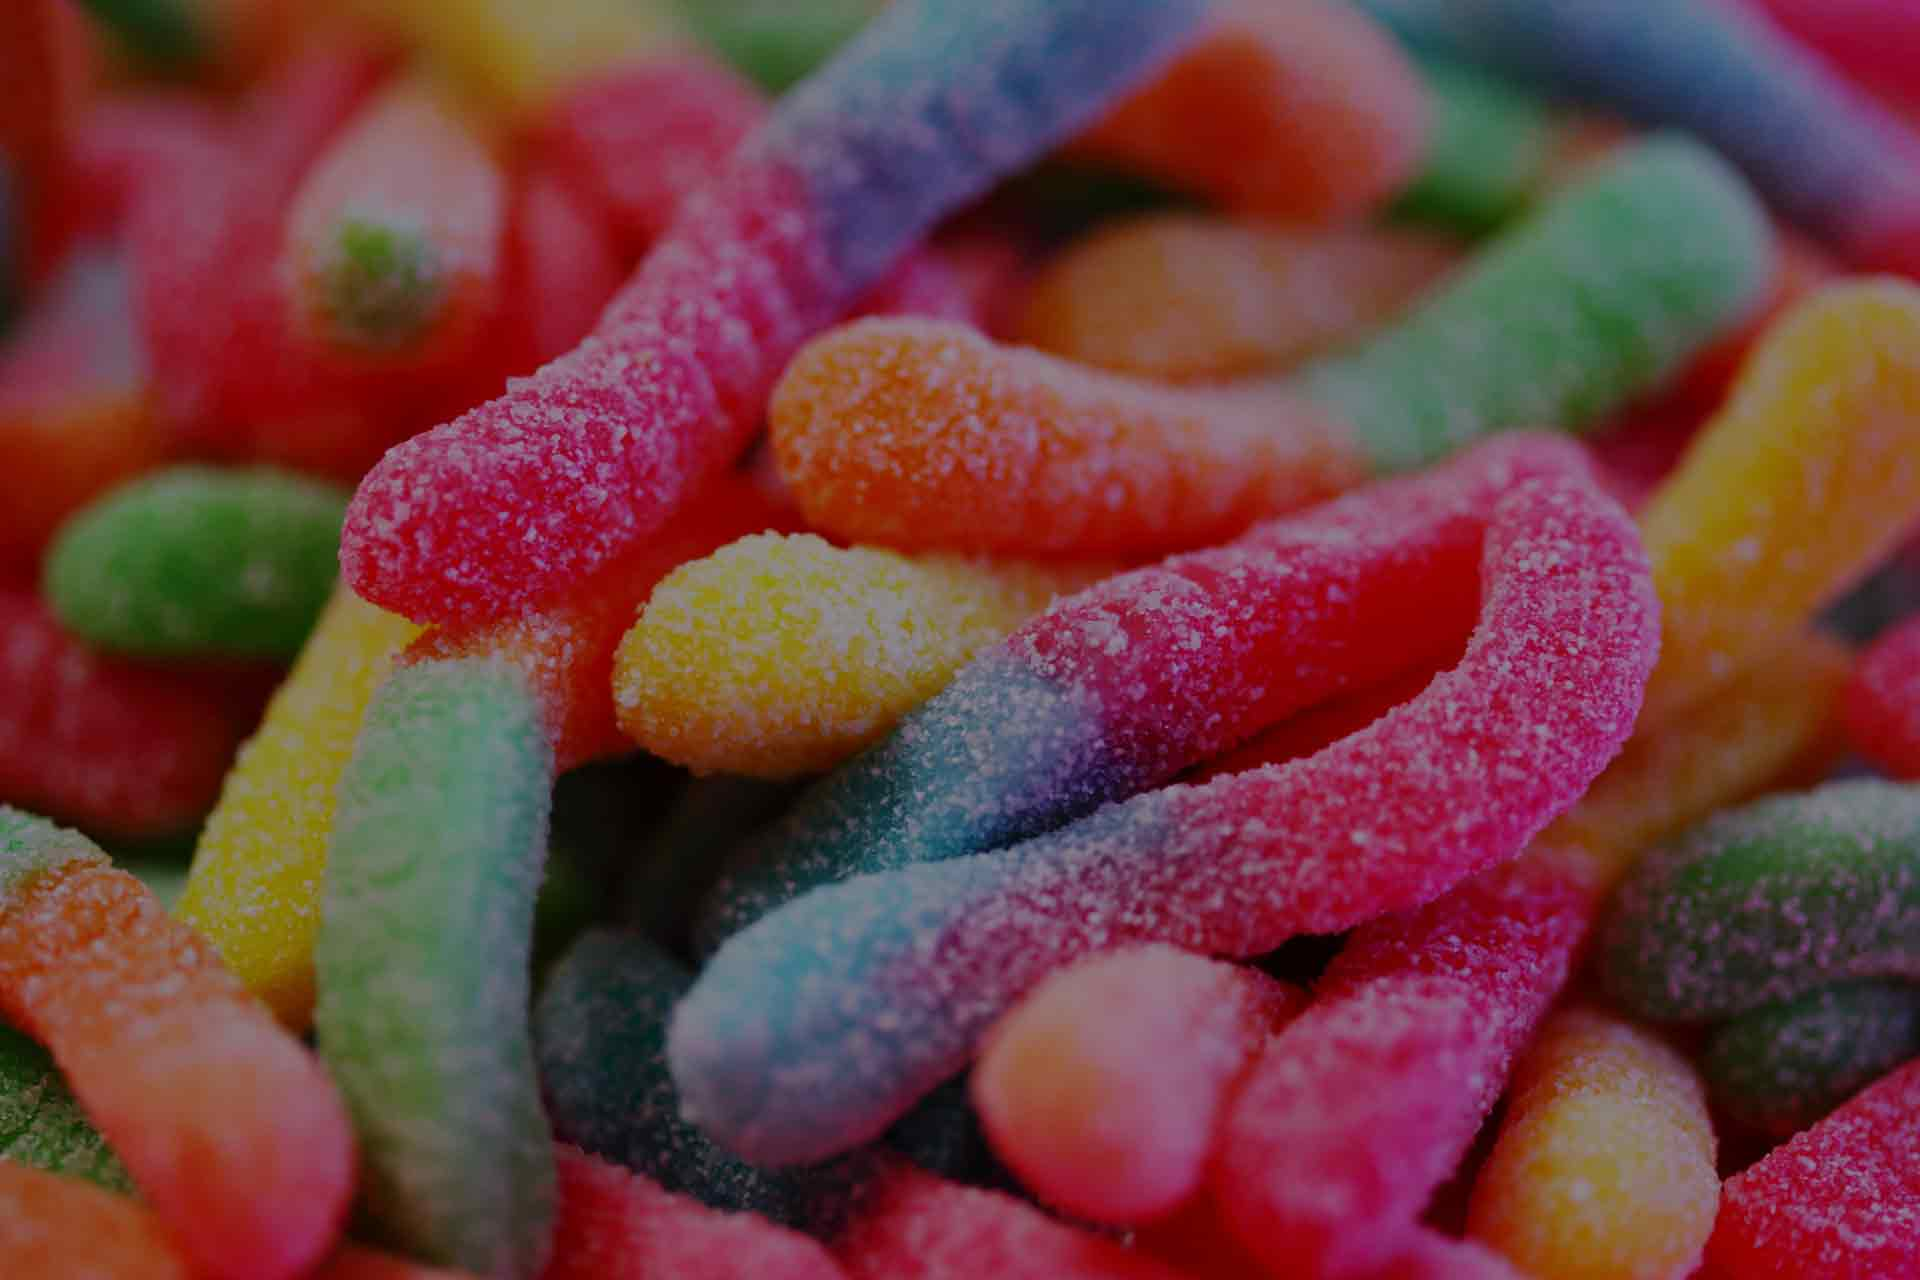
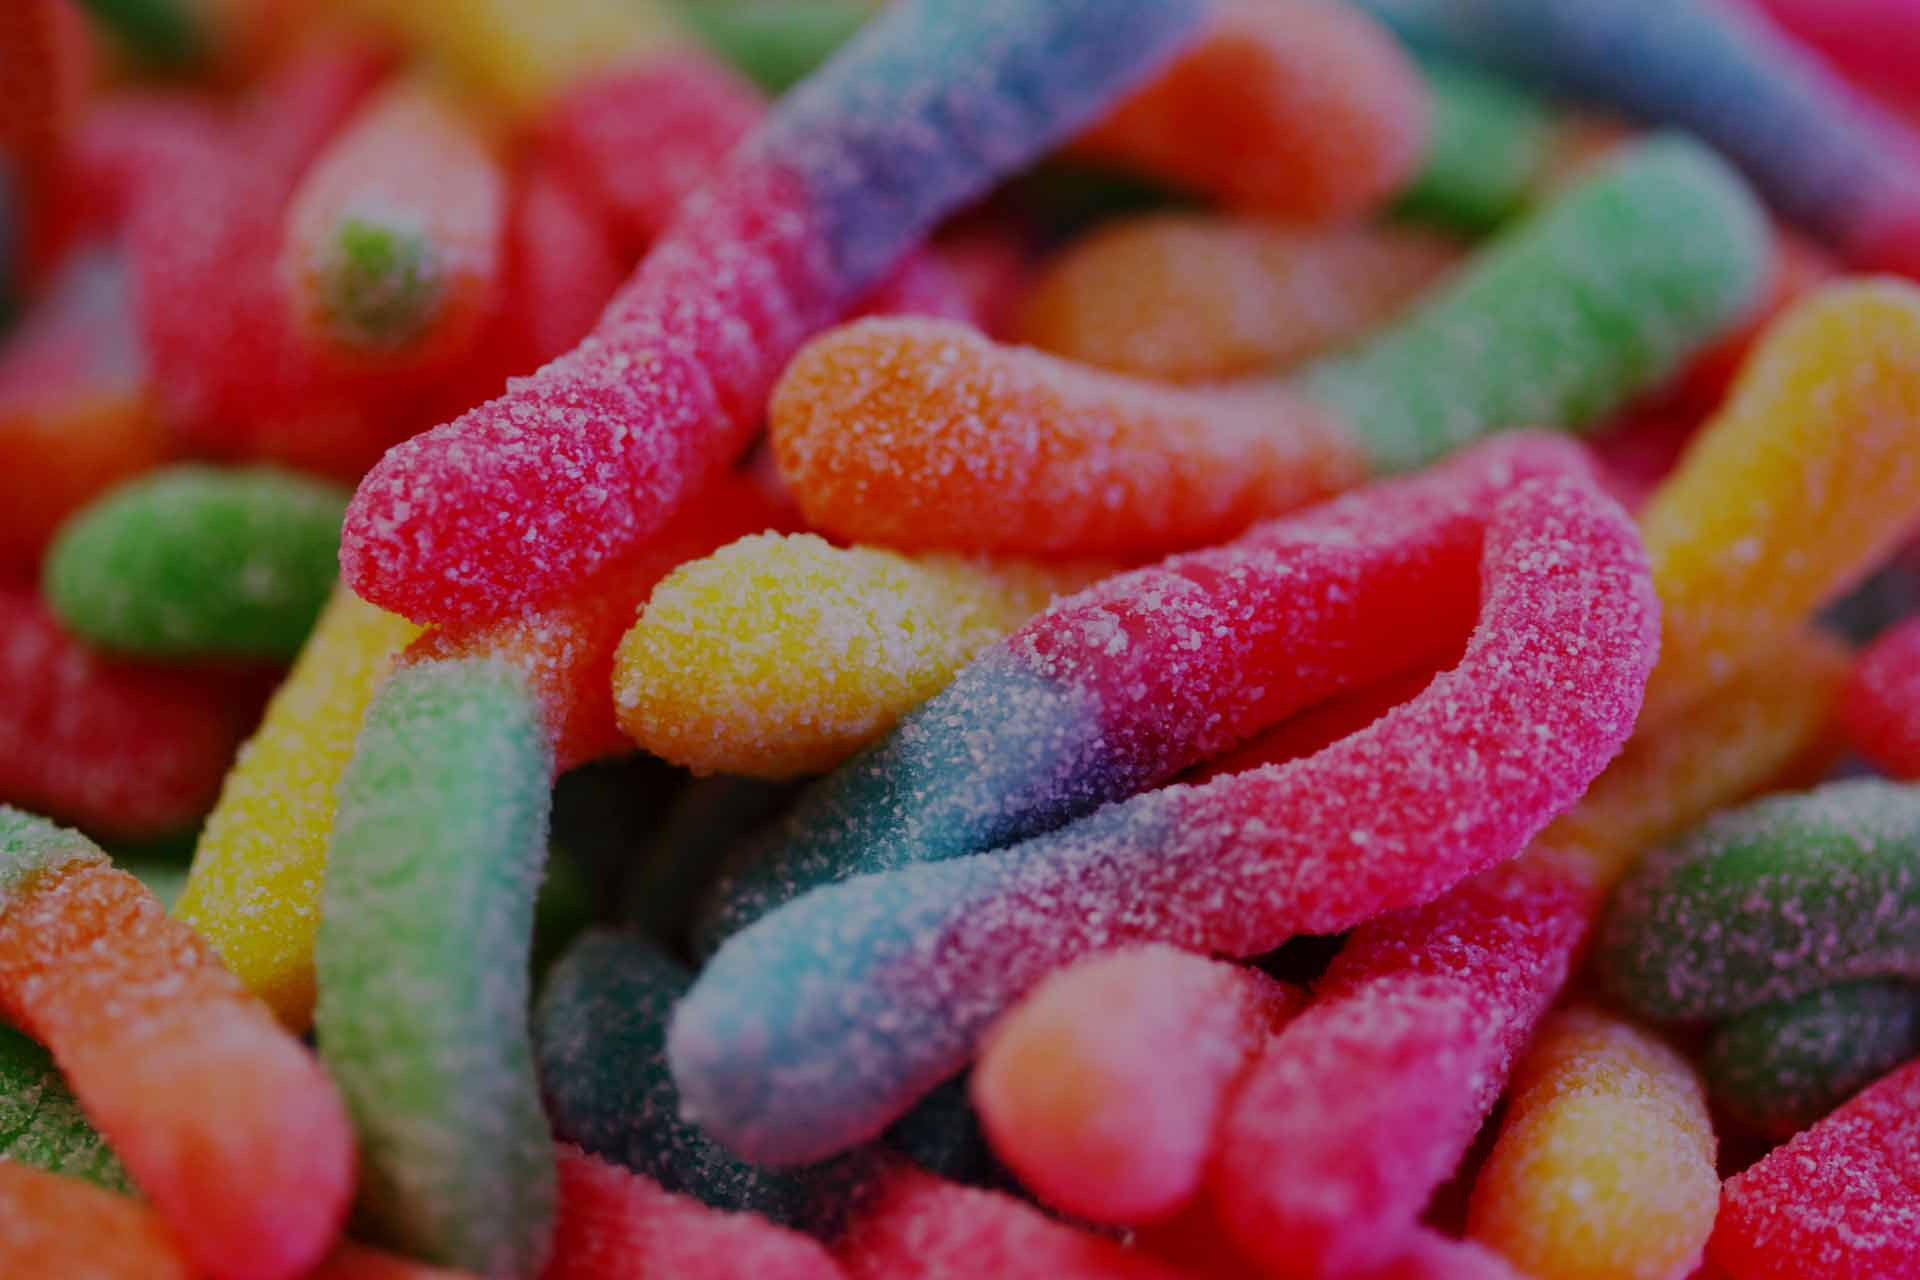
Colours & Images
Changed colours of all products list, changed the masthead photo

diff --git a/css/main.css b/css/main.css
@@ -26,33 +26,9 @@ h1 {
 }
 
 .masthead {
-  background-image: url("../images/gumdrops.jpg");
-  background-size: 1500px;
+  background-image: url("../images/gummyworms.jpg");
+  background-size: 1000px;
   color: #fff;
-}
-
-.assortments {
-  background-color: #ecb8e8;
-}
-
-.chocolate {
-  background-color: #cbace8;
-}
-
-.gum {
-  background-color: #9bf1f8;
-}
-
-.gummies {
-  background-color: #ecb8e8;
-}
-
-.hardcandy {
-  background-color: #cbace8;
-}
-
-.sprinkles {
-  background-color: #9bf1f8;
 }
 
 nav {
@@ -62,7 +38,7 @@ nav {
 nav a {
   text-decoration: none;
   color: #fff;
-  background-color: #F04F71;
+  background-color: #f04f71;
   padding: .75em;
   border-radius: 8px;
 }
@@ -71,8 +47,32 @@ nav a:hover {
   background-size: 64px;
   background-position: center;
   background-repeat: no-repeat;
-  color: #F04F71;
+  color: #f04f71;
   background-color: #fff;
+}
+
+.assortments {
+  background-color: #fdb8ca;
+}
+
+.chocolate {
+  background-color: #fe976c;
+}
+
+.gum {
+  background-color: #e9da63;
+}
+
+.gummies {
+  background-color: #8ecc8b;
+}
+
+.hardcandy {
+  background-color: #8dcfe7;
+}
+
+.sprinkles {
+  background-color: #bea8f6;
 }
 
 img {
